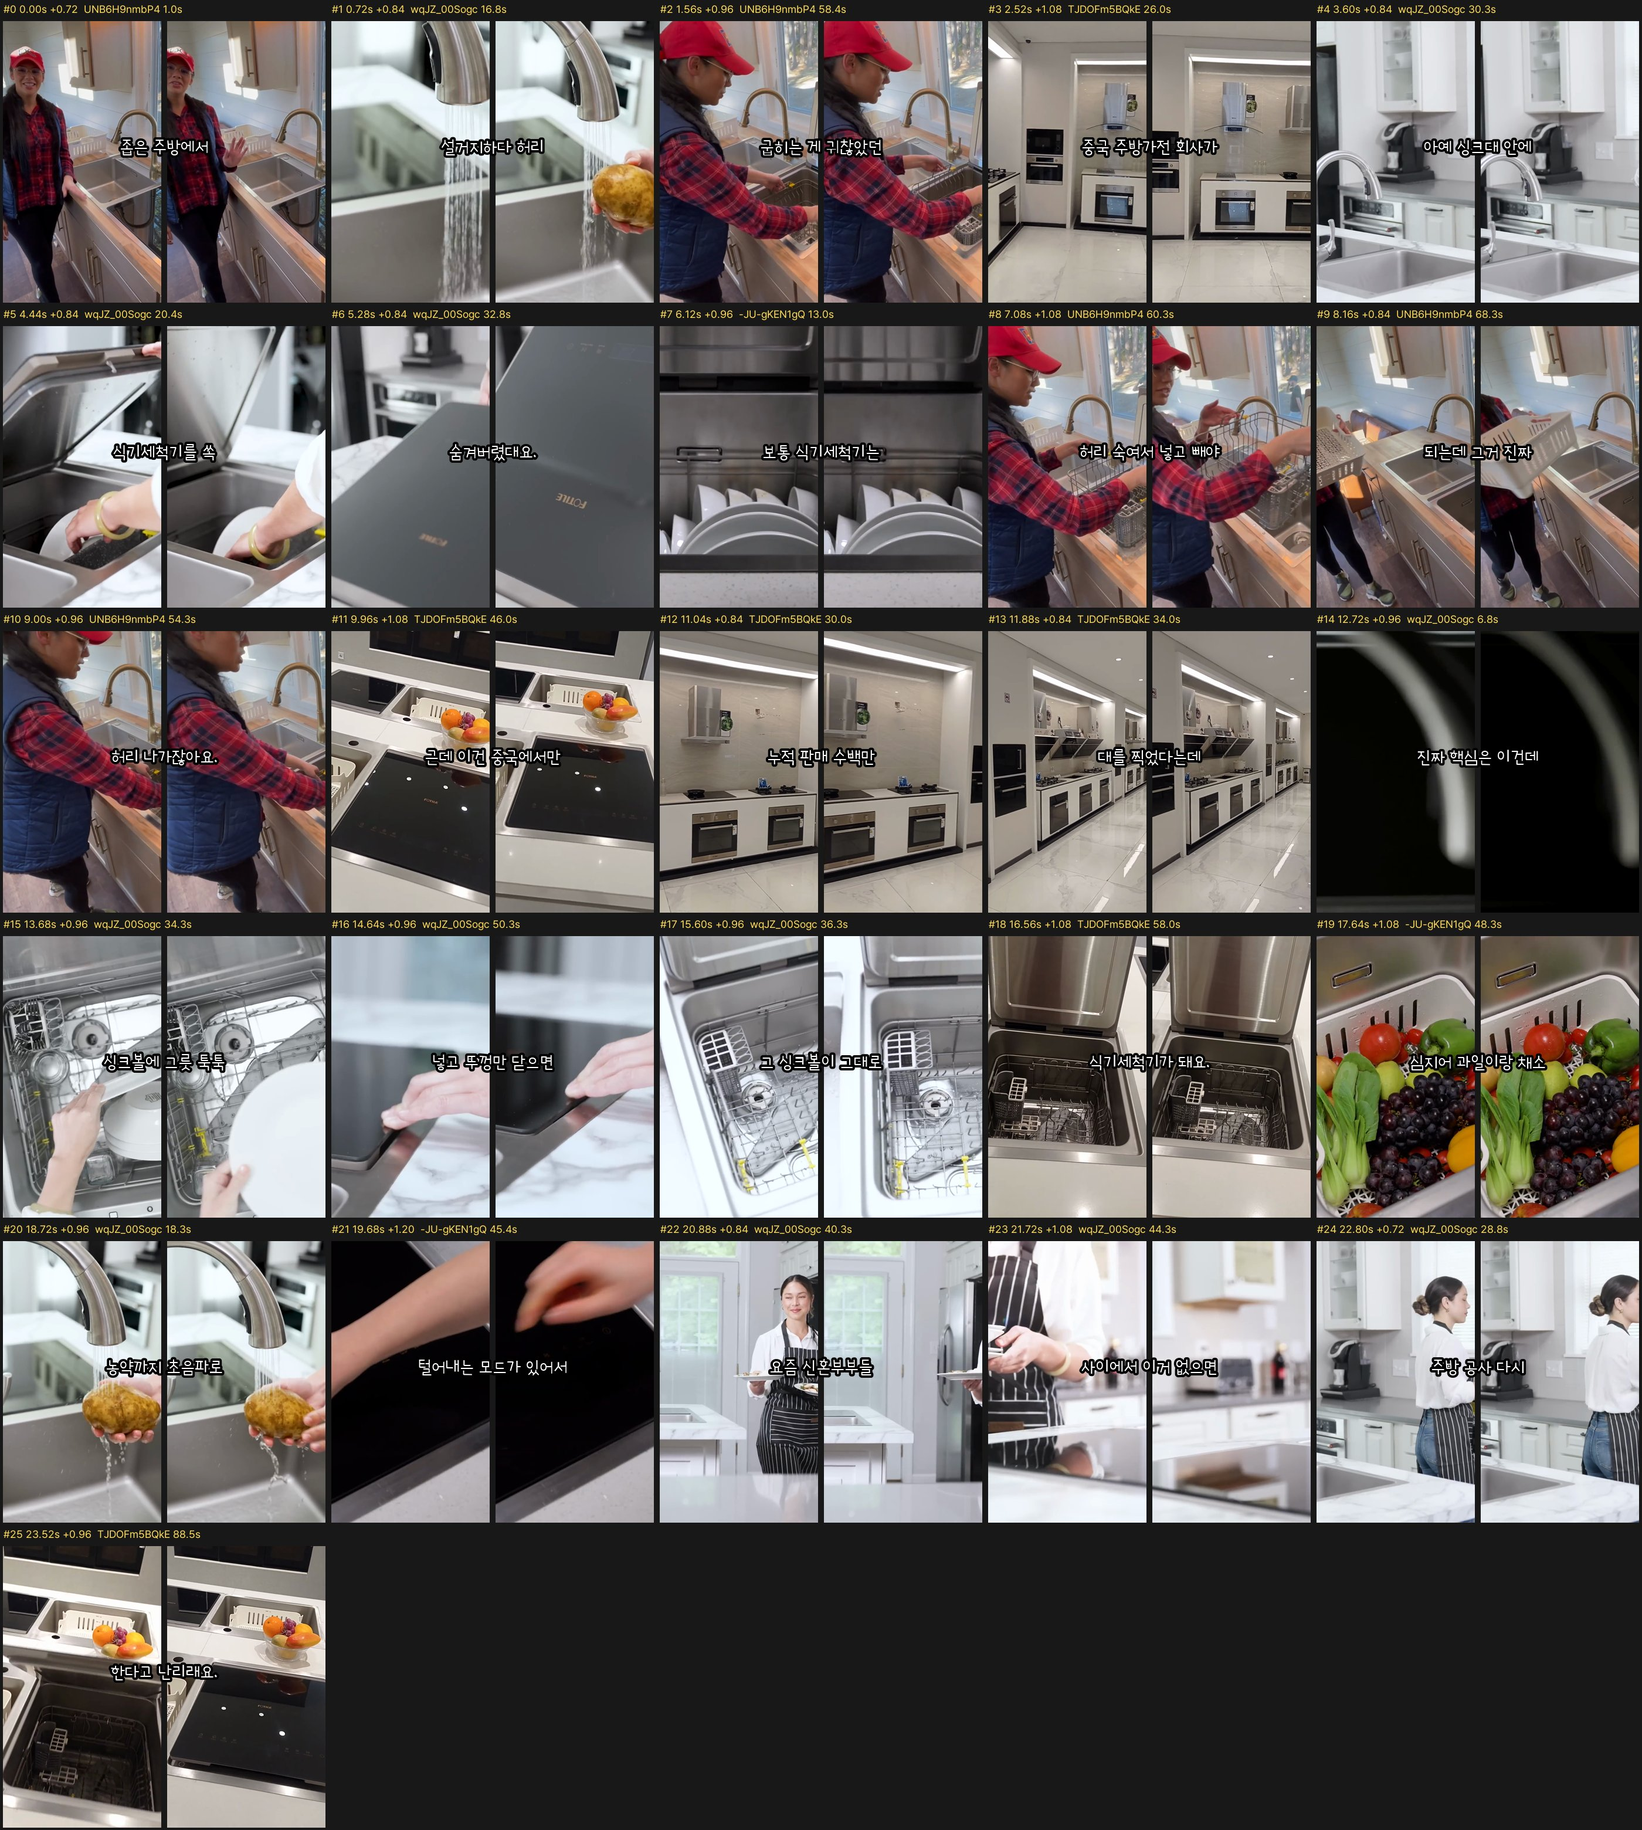
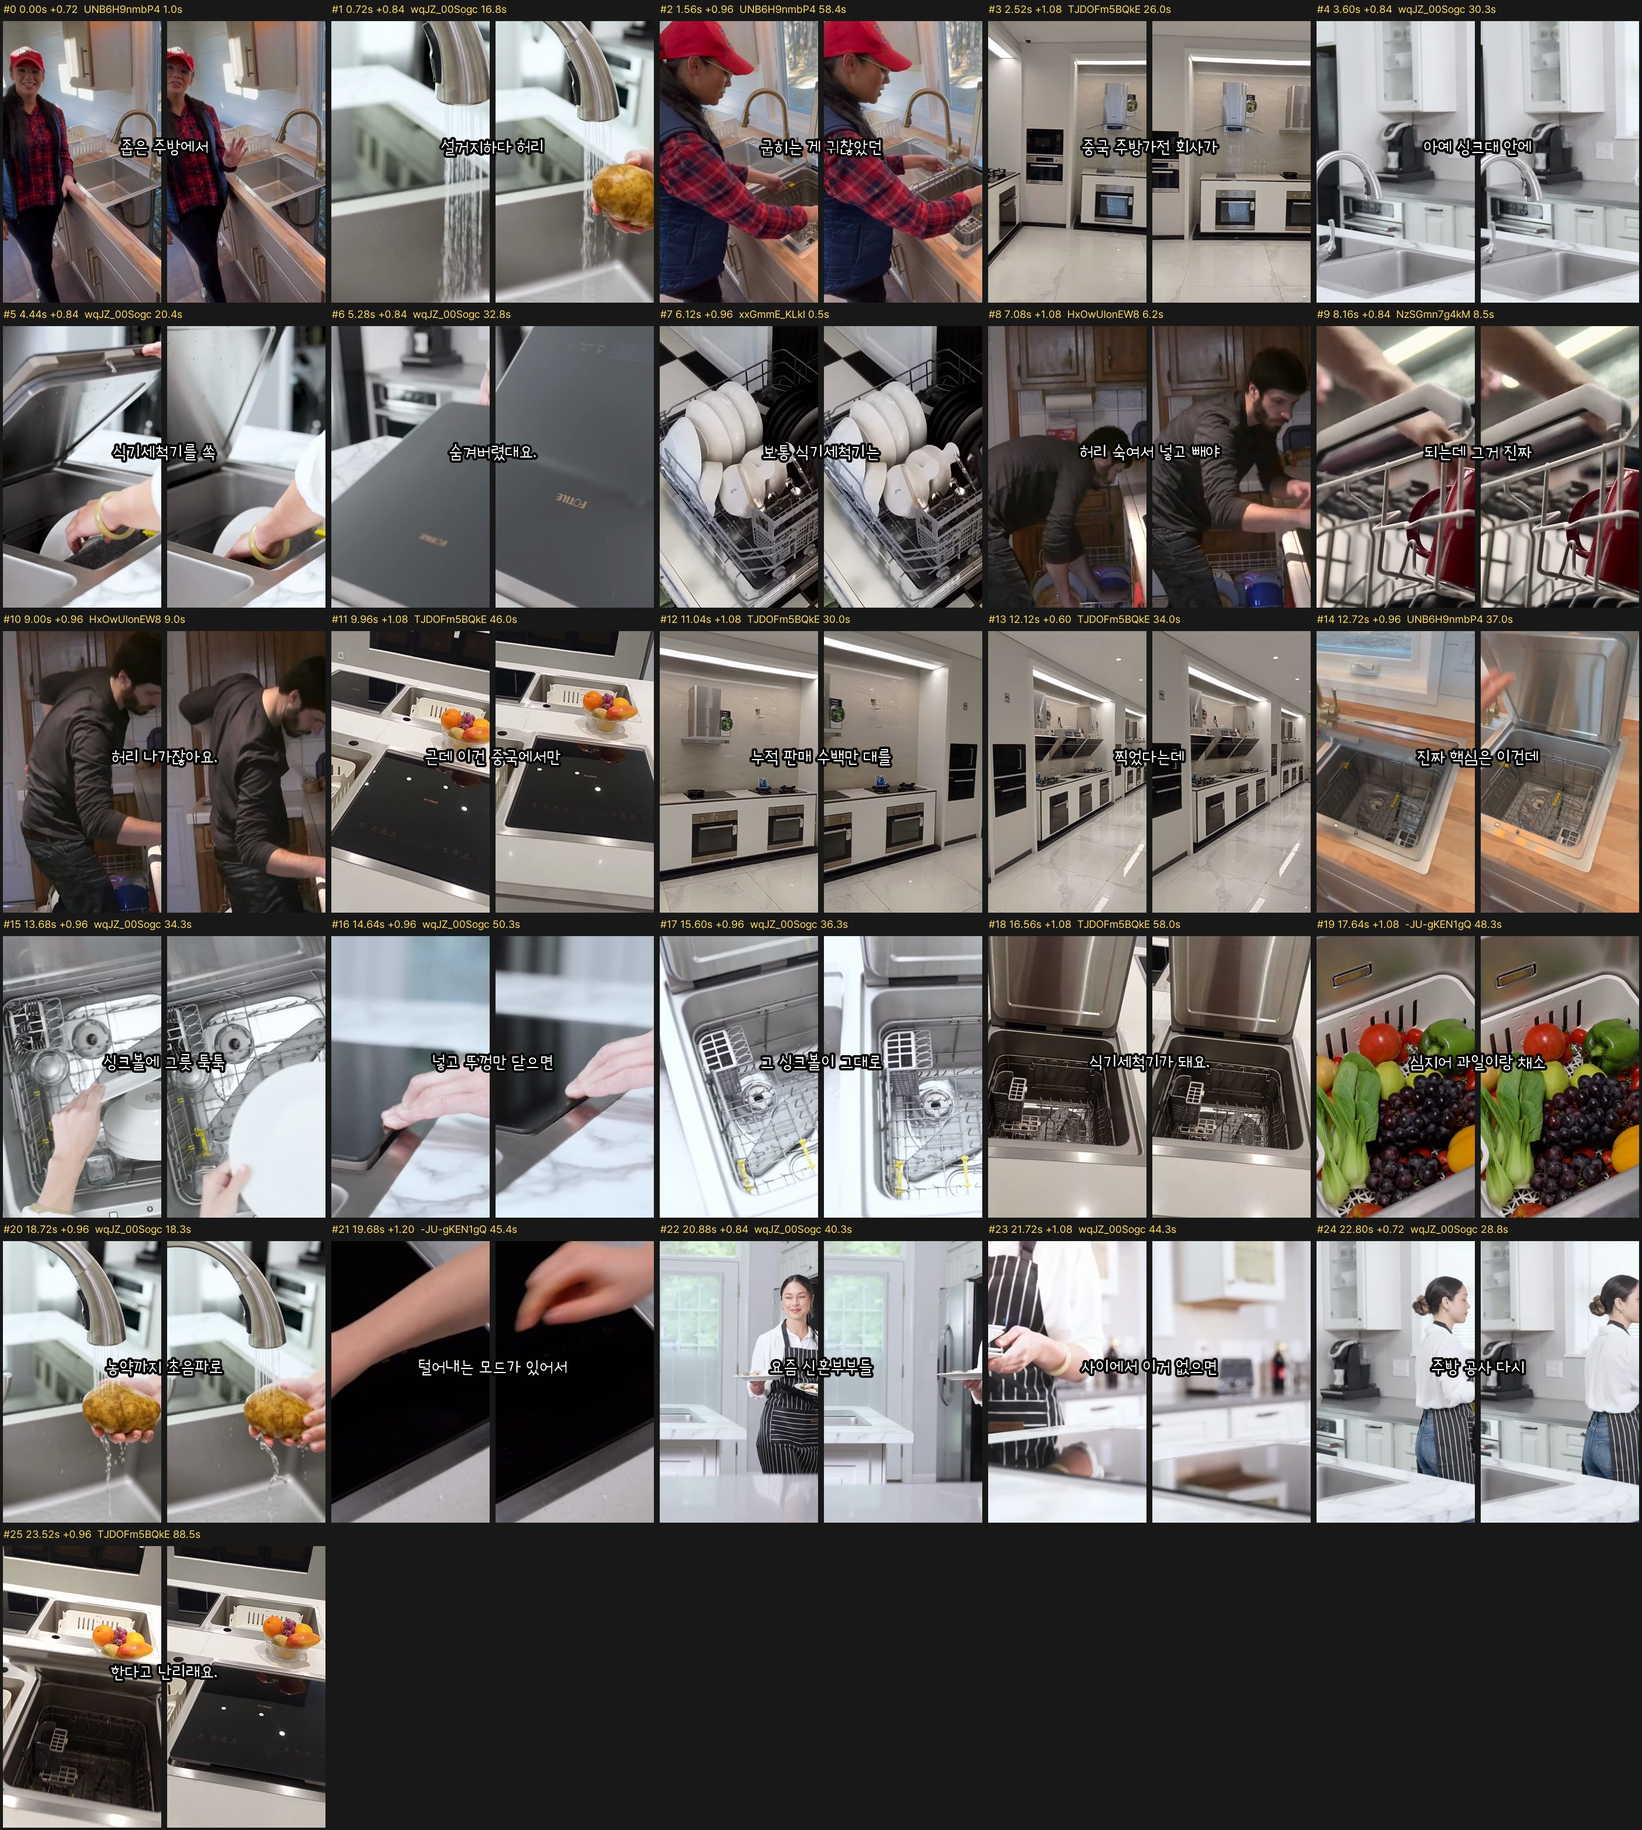
두유노홈디노 작품1 식기세척기 완성 1판: 페이블 4곳 수정(비포 장면·뚜껑 열림·수백만 대를) · 박창수 TTS 1회·atempo 1.185(8.32자/초) · 24.93초·−9.6 LUFS (관제 097)
Claude-Session: https://claude.ai/code/session_01BTrZqzTa3Berb8VK4gs4B4

Changed region(s): [[0.4039, 0.1554, 1.0, 0.4974], [0.0, 0.342, 0.2175, 0.4974]]

diff --git a/channel/homedesignnote/작품1_식기세척기/render.py b/channel/homedesignnote/작품1_식기세척기/render.py
@@ -1,0 +1,135 @@
+# -*- coding: utf-8 -*-
+"""두유노홈디노(잇썸홈) 작품1 싱크대 식기세척기 — 박창수 TTS 1회 → 말속도 8.3자/초 → 토막=컷 재료 → 프리셋 틀(라이브 렌더러) → 나레+BGM.
+
+    PYTHONUTF8=1 py channel/homedesignnote/작품1_식기세척기/render.py
+
+입력: 같은 폴더 대본.json(tokens)·재료.json(shots) — make_plan.py 산출. 틀 = channel/homedesignnote/preset/전체화면_가운데자막(기본값).
+규칙: 짤 0·효과음 0·원음 끔·BGM honwaka_puppu 나레 −14dB(원본 bench 14.4dB)·브랜드 잇썸홈.
+★타입캐스트 1회 — narr_full.mp3 가 있으면 다시 안 부른다.
+"""
+import json
+import shutil
+import subprocess
+import sys
+from pathlib import Path
+
+ROOT = Path(__file__).resolve().parents[3]
+sys.path.insert(0, str(ROOT))
+from tools.calcopy import narr_video as N  # noqa: E402
+from tools.calcopy.engine import preset_save as P  # noqa: E402
+
+D = Path(__file__).parent
+SRC = Path("C:/숏템_칼카피/homedesignnote/작품1_식기세척기")
+R = SRC / "render"
+PRESET = ROOT / "channel/homedesignnote/preset/전체화면_가운데자막"
+VOICE = "tc_6059dad0b83880769a50502f"   # 박창수
+CPS = 8.32
+BGM = ROOT / "shopping_shorts/assets/bgm_lib/honwaka_puppu.mp3"
+BGM_DB_BELOW = 14.4
+TARGET_LUFS, TP = -9.0, -2.0            # 원본 50편 중앙 −7.5 ±1.5 안 · 리미터 −2 dBFS(aac 뒤 최고점 ≤ −0.5 — 1판 −1 로는 +0.2)
+
+
+def run(cmd, **kw):
+    return subprocess.run(cmd, check=True, stdin=subprocess.DEVNULL, capture_output=True, text=True, encoding="utf-8", errors="replace", **kw)
+
+
+def dur_of(p):
+    return float(run(["ffprobe", "-v", "error", "-show_entries", "format=duration", "-of", "csv=p=0", str(p)]).stdout.strip())
+
+
+def lufs(p):
+    e = subprocess.run(["ffmpeg", "-hide_banner", "-nostats", "-i", str(p), "-af", "ebur128=peak=true", "-f", "null", "-"],
+                       capture_output=True, text=True, encoding="utf-8", errors="replace", stdin=subprocess.DEVNULL).stderr
+    import re
+    I = float(re.findall(r"I:\s+(-?[\d.]+) LUFS", e)[-1]); tp = float(re.findall(r"Peak:\s+(-?[\d.]+) dBFS", e)[-1])
+    return I, tp
+
+
+def main():
+    R.mkdir(parents=True, exist_ok=True)
+    S = json.loads((D / "대본.json").read_text(encoding="utf-8"))
+    M = json.loads((D / "재료.json").read_text(encoding="utf-8"))
+    lines = [l["tts"] for l in S["lines"]]
+    full, tight, narr = R / "narr_full.mp3", R / "narr_tight.wav", R / "narr.wav"
+    if not full.exists():
+        from shopping_shorts.channelkit import providers
+        providers.typecast_synth(VOICE)(" ".join(lines), str(full))
+        print("TTS 1회:", full)
+    if not tight.exists():
+        f = "silenceremove=start_periods=1:start_threshold=-45dB:start_silence=0.02"
+        mid = "silenceremove=stop_periods=-1:stop_duration=0.15:stop_threshold=-45dB:stop_silence=0.1"
+        run(["ffmpeg", "-y", "-i", str(full), "-af", f"{f},areverse,{f},areverse,{mid}", str(tight)])
+    chars = sum(t["chars"] for t in S["tokens"])
+    d0 = dur_of(tight)
+    tempo = round(min(1.35, max(0.8, CPS / (chars / d0))), 4)
+    run(["ffmpeg", "-y", "-i", str(tight), "-af", f"atempo={tempo}", "-ar", "44100", str(narr)])
+    dn = dur_of(narr)
+    print(f"TTS 말속도 {chars / d0:.2f} → atempo {tempo} → {chars / dn:.2f}자/초, {dn:.2f}초")
+
+    steps = [{"text": t["text"], "chars": t["chars"], "new_cut": True, "sent": t["line"], "line": t["line"]} for t in S["tokens"]]
+    timed, dur = N.time_steps(steps, str(narr), lines=[x["text"] for x in S["lines"]])
+    END = round(dur + 0.4, 3)             # 끝 여운 0.4초
+    timed[-1]["t1"] = END
+
+    # 재료: 토막마다 컷 1개(프레임 정확), 9:16 crop → 1080×1920, 원음 없음
+    parts = R / "parts"; shutil.rmtree(parts, ignore_errors=True); parts.mkdir()
+    lst = []
+    for k, (st, sh) in enumerate(zip(timed, M["shots"])):
+        n = max(1, round(st["t1"] * 30) - round(st["t0"] * 30))
+        x, y, w, h = sh["src_crop"]
+        out = parts / f"p{k:02d}.mp4"
+        run(["ffmpeg", "-y", "-ss", f"{sh['ss']:.3f}", "-i", str(SRC / sh["src"]), "-an",
+             "-vf", f"crop={w}:{h}:{x}:{y},scale=1080:1920:flags=lanczos,setsar=1,fps=30", "-frames:v", str(n),
+             "-c:v", "libx264", "-crf", "16", "-preset", "veryfast", "-pix_fmt", "yuv420p", str(out)])
+        lst.append(f"file '{out.as_posix()}'")
+        st["frames"] = n
+    (parts / "list.txt").write_text("\n".join(lst), encoding="utf-8")
+    mat = R / "material.mp4"
+    run(["ffmpeg", "-y", "-f", "concat", "-safe", "0", "-i", str(parts / "list.txt"), "-c", "copy", str(mat)])
+
+    # 틀(프리셋 기본값: 자막 y 927·잇썸홈) → 라이브 렌더러
+    from shopping_shorts import scene_style
+    from shopping_shorts.calcopy_frame import to_snapshot
+    pre, Mf = P.load(PRESET)
+    F = P.apply(pre, None, None, Mf["variable_stats"], None, Mf["rules"])
+    (R / "frame.json").write_text(json.dumps(F, ensure_ascii=False, indent=1), encoding="utf-8")
+    t = 0.0
+    tl = []
+    for i, st in enumerate(timed):
+        a, b = round(t, 3), round(t + st["frames"] / 30, 3)
+        tl.append({"beat_idx": i, "t0": a, "dur": round(b - a, 3), "narration": st["text"], "caption_lines": [st["text"]],
+                   "role": "hook" if i == 0 else "body", "primary": {"video_id": "s0", "start": a, "end": b}})
+        t = b
+    snap = scene_style.validate_snapshot(to_snapshot.to_snapshot(F))
+    vid = R / "video.mp4"
+    if "--audio-only" not in sys.argv or not vid.exists():
+        shutil.rmtree(R / "work", ignore_errors=True)
+        scene_style.compose(str(mat), tl, snap, str(vid), R / "work", {"text": ""})
+    (R / "timeline.json").write_text(json.dumps({"tempo": tempo, "tl": tl, "timed": timed}, ensure_ascii=False, indent=1), encoding="utf-8")
+
+    # 소리: 나레 + BGM(나레 LUFS − 14.4) → 목표 LUFS
+    nI, _ = lufs(narr)
+    bI, _ = lufs(BGM)
+    g = (nI - BGM_DB_BELOW) - bI
+    mix = R / "mix.wav"
+    run(["ffmpeg", "-y", "-i", str(narr), "-stream_loop", "-1", "-i", str(BGM), "-filter_complex",
+         f"[1:a]volume={g:.2f}dB,atrim=0:{t:.3f},afade=t=out:st={max(0, t - 0.6):.3f}:d=0.6[b];[0:a]apad=whole_dur={t:.3f}[n];"
+         f"[n][b]amix=inputs=2:normalize=0:duration=first[o]", "-map", "[o]", "-ar", "44100", str(R / "mix_raw.wav")])
+    # loudnorm 은 최고점 한도 때문에 −14 에서 멈췄다(1판 실측) → 이득 + 리미터(−1 dBFS)로 목표 LUFS
+    mI, _ = lufs(R / "mix_raw.wav")
+    gain = 16.0   # 압축 뒤 이득 시작값(10-17 실측: 16→−10.6 · 20→−9.9 · 24→−9.2)
+    for _ in range(6):
+        run(["ffmpeg", "-y", "-i", str(R / "mix_raw.wav"), "-af", f"dynaudnorm=f=100:g=9:p=0.9:m=20,acompressor=threshold=0.125:ratio=8:attack=1:release=40,volume={gain:.2f}dB,alimiter=limit={10 ** (TP / 20):.4f}:level=false:attack=1:release=30",
+             "-ar", "44100", str(mix)])
+        oI, _ = lufs(mix)
+        _, opk = lufs(mix)
+        if oI >= TARGET_LUFS - 0.4 or gain >= 22:
+            break
+        gain += 2.0
+    final = R / "final.mp4"
+    run(["ffmpeg", "-y", "-i", str(vid), "-i", str(mix), "-map", "0:v", "-map", "1:a", "-c:v", "copy", "-c:a", "aac", "-b:a", "192k", "-shortest", str(final)])
+    print("final", final, dur_of(final), "LUFS/TP", lufs(final), "bgm gain", round(g, 2))
+
+
+if __name__ == "__main__":
+    main()

diff --git a/channel/homedesignnote/작품1_식기세척기/make_plan.py b/channel/homedesignnote/작품1_식기세척기/make_plan.py
@@ -22,6 +22,8 @@ from tools.calcopy import narr_video as N  # noqa: E402
 HERE = Path(__file__).parent
 SRC = Path("C:/숏템_칼카피/homedesignnote/작품1_식기세척기")
 CPS = 8.32
+BEFORE = {"xxGmmE_KLkI", "HxOwUlonEW8", "NzSGmn7g4kM"}   # 페이블 10-17: 비포 장면은 다른 제품 OK(원본 fQPX 도 비포는 제품 밖)
+CHUNK_FIX = {2: ["근데 이건 중국에서만", "누적 판매 수백만 대를", "찍었다는데"]}
 CHUNK = 9   # 공백 뺀 9자 — 토막 길이 중앙 0.96초(8자면 0.84초로 원본 자막 0.9·컷 1.15초보다 짧다)
 LINES = [
     "좁은 주방에서 설거지하다 허리 굽히는 게 귀찮았던 중국 주방가전 회사가 아예 싱크대 안에 식기세척기를 쏙 숨겨버렸대요.",
@@ -33,7 +35,7 @@ LINES = [
 ]
 CLIMAX = {0: "①센 시작", 2: "②숫자", 3: "③진짜 핵심 반전", 4: "④심지어", 5: "⑤난리"}
 ROLE = {0: "훅", 1: "도입", 2: "도입(증거)", 3: "설명", 4: "효과", 5: "효과·행동유도"}   # script_frame F1 칸
-URL = {"wqJZ_00Sogc": "https://www.youtube.com/watch?v=wqJZ_00Sogc", "-JU-gKEN1gQ": "https://www.youtube.com/watch?v=-JU-gKEN1gQ",
+URL = {"xxGmmE_KLkI": "https://www.youtube.com/watch?v=xxGmmE_KLkI", "HxOwUlonEW8": "https://www.youtube.com/watch?v=HxOwUlonEW8", "NzSGmn7g4kM": "https://www.youtube.com/watch?v=NzSGmn7g4kM", "wqJZ_00Sogc": "https://www.youtube.com/watch?v=wqJZ_00Sogc", "-JU-gKEN1gQ": "https://www.youtube.com/watch?v=-JU-gKEN1gQ",
        "UNB6H9nmbP4": "https://www.youtube.com/watch?v=UNB6H9nmbP4", "TJDOFm5BQkE": "https://www.youtube.com/watch?v=TJDOFm5BQkE"}
 # 토막 → (소스 id, 시작 초, 가로 중심 비율(가로 소스만), 화면에 보이는 것)
 SHOTS = [
@@ -44,14 +46,14 @@ SHOTS = [
     ("wqJZ_00Sogc", 30.3, 0.42, "싱크대가 있는 밝은 주방 전경"),
     ("wqJZ_00Sogc", 20.4, 0.42, "싱크대 한 칸 덮개를 열자 식기세척기 칸"),
     ("wqJZ_00Sogc", 32.8, 0.32, "검은 유리 덮개 닫기(쏙 숨김)"),
-    ("-JU-gKEN1gQ", 13.0, 0.6, "그릇이 꽉 찬 세척기 칸 안"),
-    ("UNB6H9nmbP4", 60.3, 0.45, "허리 숙여 칸에 바구니 넣기"),
-    ("UNB6H9nmbP4", 68.3, 0.42, "바구니를 들어 빼는 사람"),
-    ("UNB6H9nmbP4", 54.3, 0.4, "싱크대 쪽으로 몸 숙임"),
+    ("xxGmmE_KLkI", 0.5, 0.45, "보통(빌트인) 식기세척기 문 열린 칸 — 비포, 다른 제품"),
+    ("HxOwUlonEW8", 6.2, 0.4, "낮은 식기세척기에 허리 굽혀 그릇 넣는 남자 — 비포, 다른 제품"),
+    ("NzSGmn7g4kM", 8.5, 0.5, "낮은 식기세척기 선반에서 그릇 빼는 손 — 비포, 다른 제품"),
+    ("HxOwUlonEW8", 9.0, 0.37, "허리 짚고 일어나는 남자 — 비포, 다른 제품"),
     ("TJDOFm5BQkE", 46.0, None, "매장 진열 싱크 매립형 제품(과일 담긴 싱크)"),
     ("TJDOFm5BQkE", 30.0, None, "매장 전시 주방 줄"),
     ("TJDOFm5BQkE", 34.0, None, "매장 전시 줄 끝까지"),
-    ("wqJZ_00Sogc", 6.8, 0.68, "어두운 싱크 수전 클로즈업(반전 분위기)"),
+    ("UNB6H9nmbP4", 37.0, 0.55, "싱크대 한 칸 뚜껑이 올라가며 열리는 순간"),
     ("wqJZ_00Sogc", 34.3, 0.4, "손으로 접시를 선반에 툭 넣기"),
     ("wqJZ_00Sogc", 50.3, 0.7, "손으로 덮개 닫기"),
     ("wqJZ_00Sogc", 36.3, 0.42, "싱크볼 속 식기 선반 위에서 본 모습"),
@@ -90,6 +92,12 @@ def grab(p, t, crop):
 
 def main():
     steps = N.steps_of(LINES, CHUNK, "replace")
+    # 낱말 묶음 끊김 금지(페이블 10-17: '수백만 / 대를' 금지) — 그 줄만 손 토막
+    for li, parts in CHUNK_FIX.items():
+        idx = [k for k, x in enumerate(steps) if x["line"] == li]
+        sent = steps[idx[0]]["sent"]
+        new = [{"text": c, "chars": len(c.replace(" ", "")), "new_cut": j == 0, "sent": sent, "line": li} for j, c in enumerate(parts)]
+        steps = steps[:idx[0]] + new + steps[idx[-1] + 1:]
     assert len(steps) == len(SHOTS), (len(steps), len(SHOTS))
     t = 0.0
     toks, shots = [], []
@@ -100,7 +108,7 @@ def main():
         w, h = probe(p)
         crop = crop_of(w, h, cx or 0.5)
         toks.append({"i": i, "line": s["line"], "text": s["text"], "chars": s["chars"], "t0": round(t, 2), "dur": dur})
-        shots.append({"i": i, "src": p.name, "url": URL[vid], "ss": ss, "dur": dur, "kind": "같은 제품 실영상(FOTILE 매립형)",
+        shots.append({"i": i, "src": p.name, "url": URL[vid], "ss": ss, "dur": dur, "kind": ("비포(다른 제품 일반 식기세척기)" if vid in BEFORE else "같은 제품 실영상(FOTILE 매립형)"),
                       "full": True, "fit": "cover", "src_crop": crop, "res": f"{w}x{h}", "zoom": round(1920 / crop[3], 2),
                       "audio": "끔(원음 안 씀 — 나레+BGM만)", "ours": see, "caption": s["text"]})
         t += dur

diff --git a/channel/homedesignnote/작품1_식기세척기/plan/계획.md b/channel/homedesignnote/작품1_식기세척기/plan/계획.md
@@ -13,14 +13,14 @@
 | 4 | 1 | 아예 싱크대 안에 | 3.6+0.84 | wqJZ_00Sogc 1920x1080 ×1.78 | 30.3~31.14 | 싱크대가 있는 밝은 주방 전경 |
 | 5 | 1 | 식기세척기를 쏙 | 4.44+0.84 | wqJZ_00Sogc 1920x1080 ×1.78 | 20.4~21.24 | 싱크대 한 칸 덮개를 열자 식기세척기 칸 |
 | 6 | 1 | 숨겨버렸대요. | 5.28+0.84 | wqJZ_00Sogc 1920x1080 ×1.78 | 32.8~33.64 | 검은 유리 덮개 닫기(쏙 숨김) |
-| 7 | 2 | 보통 식기세척기는 | 6.12+0.96 | -JU-gKEN1gQ 1920x1080 ×1.78 | 13.0~13.96 | 그릇이 꽉 찬 세척기 칸 안 |
-| 8 | 2 | 허리 숙여서 넣고 빼야 | 7.08+1.08 | UNB6H9nmbP4 1920x1080 ×1.78 | 60.3~61.38 | 허리 숙여 칸에 바구니 넣기 |
-| 9 | 2 | 되는데 그거 진짜 | 8.16+0.84 | UNB6H9nmbP4 1920x1080 ×1.78 | 68.3~69.14 | 바구니를 들어 빼는 사람 |
-| 10 | 2 | 허리 나가잖아요. | 9.0+0.96 | UNB6H9nmbP4 1920x1080 ×1.78 | 54.3~55.26 | 싱크대 쪽으로 몸 숙임 |
+| 7 | 2 | 보통 식기세척기는 | 6.12+0.96 | xxGmmE_KLkI 1920x1080 ×1.78 | 0.5~1.46 | 보통(빌트인) 식기세척기 문 열린 칸 — 비포, 다른 제품 |
+| 8 | 2 | 허리 숙여서 넣고 빼야 | 7.08+1.08 | HxOwUlonEW8 1920x1080 ×1.78 | 6.2~7.28 | 낮은 식기세척기에 허리 굽혀 그릇 넣는 남자 — 비포, 다른 제품 |
+| 9 | 2 | 되는데 그거 진짜 | 8.16+0.84 | NzSGmn7g4kM 1920x1080 ×1.78 | 8.5~9.34 | 낮은 식기세척기 선반에서 그릇 빼는 손 — 비포, 다른 제품 |
+| 10 | 2 | 허리 나가잖아요. | 9.0+0.96 | HxOwUlonEW8 1920x1080 ×1.78 | 9.0~9.96 | 허리 짚고 일어나는 남자 — 비포, 다른 제품 |
 | 11 | 3 | 근데 이건 중국에서만 | 9.96+1.08 | TJDOFm5BQkE 1080x1920 ×1.0 | 46.0~47.08 | 매장 진열 싱크 매립형 제품(과일 담긴 싱크) |
-| 12 | 3 | 누적 판매 수백만 | 11.04+0.84 | TJDOFm5BQkE 1080x1920 ×1.0 | 30.0~30.84 | 매장 전시 주방 줄 |
-| 13 | 3 | 대를 찍었다는데 | 11.88+0.84 | TJDOFm5BQkE 1080x1920 ×1.0 | 34.0~34.84 | 매장 전시 줄 끝까지 |
-| 14 | 4 | 진짜 핵심은 이건데 | 12.72+0.96 | wqJZ_00Sogc 1920x1080 ×1.78 | 6.8~7.76 | 어두운 싱크 수전 클로즈업(반전 분위기) |
+| 12 | 3 | 누적 판매 수백만 대를 | 11.04+1.08 | TJDOFm5BQkE 1080x1920 ×1.0 | 30.0~31.08 | 매장 전시 주방 줄 |
+| 13 | 3 | 찍었다는데 | 12.12+0.6 | TJDOFm5BQkE 1080x1920 ×1.0 | 34.0~34.6 | 매장 전시 줄 끝까지 |
+| 14 | 4 | 진짜 핵심은 이건데 | 12.72+0.96 | UNB6H9nmbP4 1920x1080 ×1.78 | 37.0~37.96 | 싱크대 한 칸 뚜껑이 올라가며 열리는 순간 |
 | 15 | 4 | 싱크볼에 그릇 툭툭 | 13.68+0.96 | wqJZ_00Sogc 1920x1080 ×1.78 | 34.3~35.26 | 손으로 접시를 선반에 툭 넣기 |
 | 16 | 4 | 넣고 뚜껑만 닫으면 | 14.64+0.96 | wqJZ_00Sogc 1920x1080 ×1.78 | 50.3~51.26 | 손으로 덮개 닫기 |
 | 17 | 4 | 그 싱크볼이 그대로 | 15.6+0.96 | wqJZ_00Sogc 1920x1080 ×1.78 | 36.3~37.26 | 싱크볼 속 식기 선반 위에서 본 모습 |
